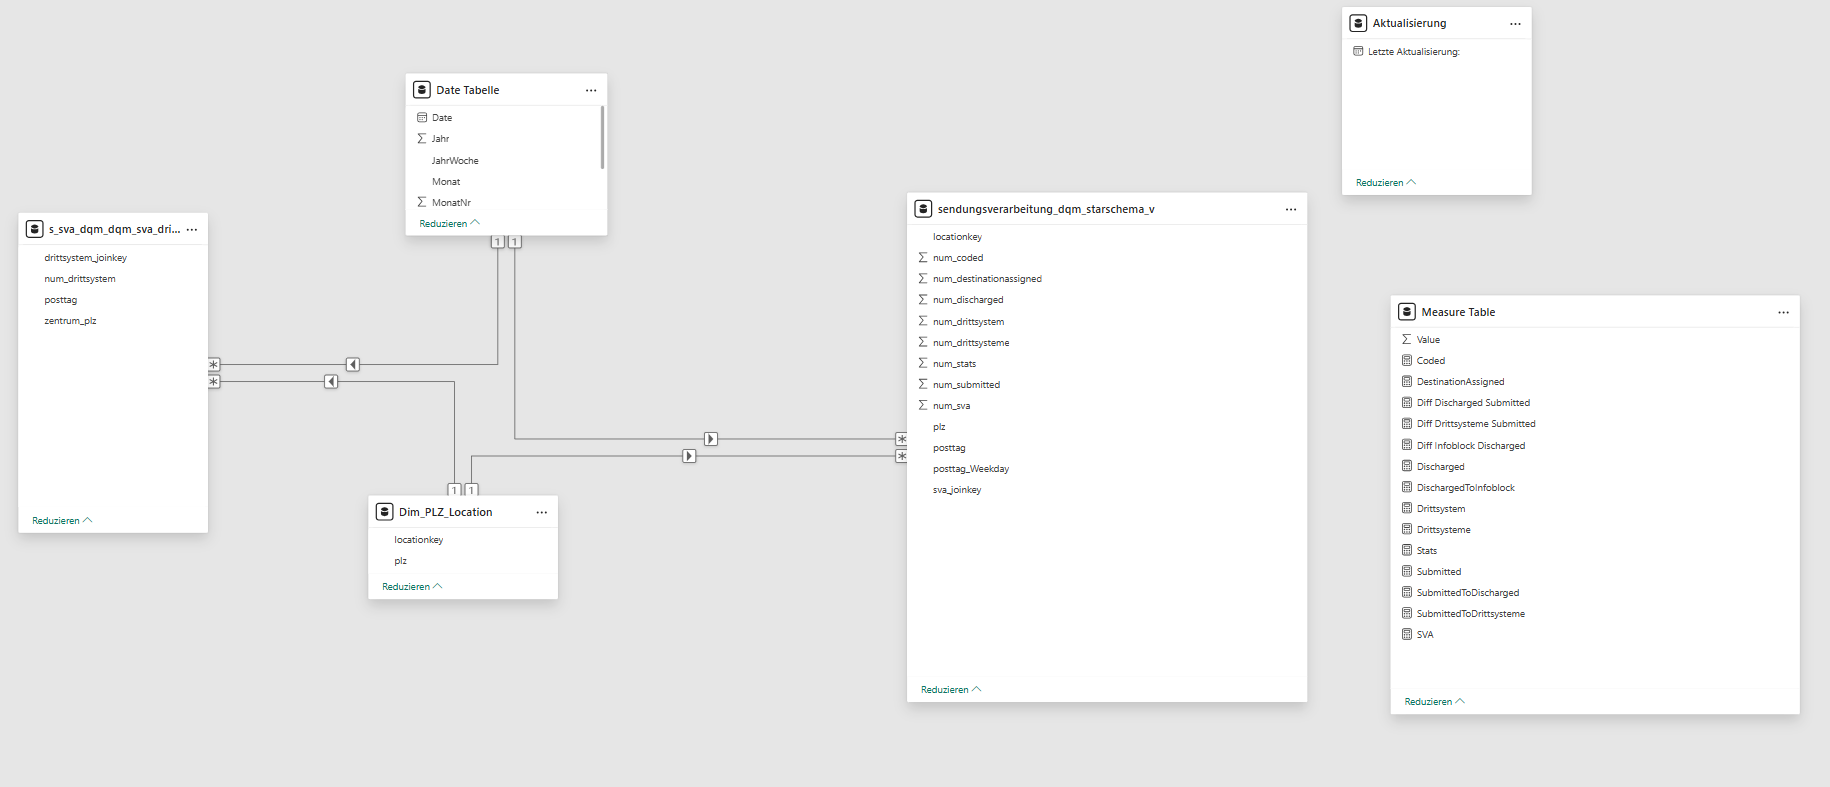
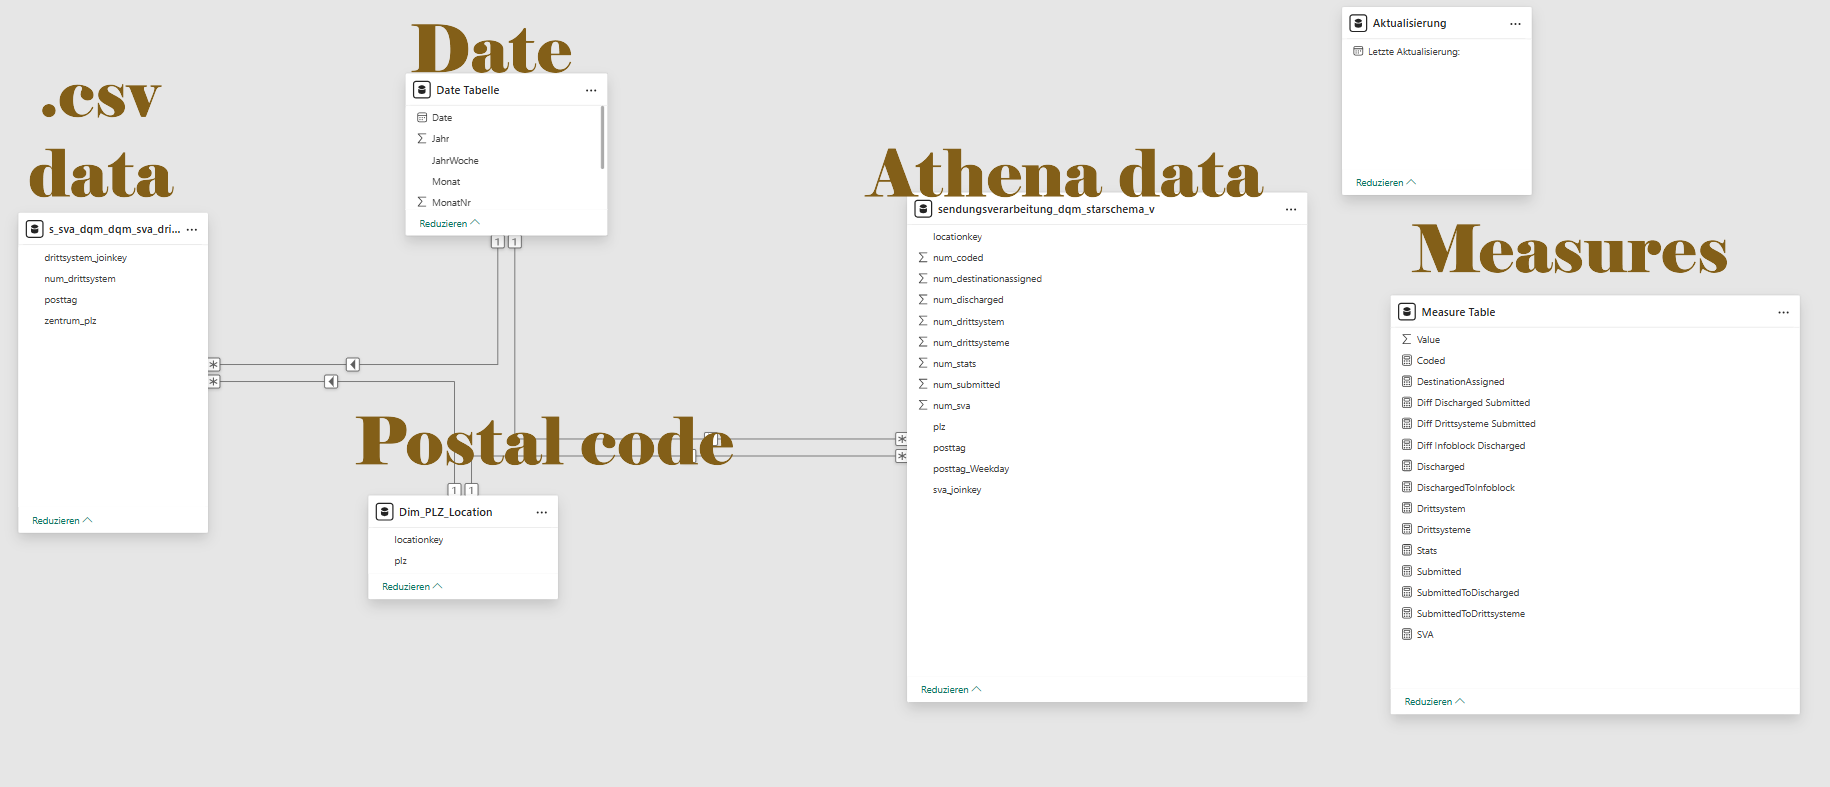
aded results and reflections from P1, much can be reused

diff --git a/Results_Achievements3.tex b/Results_Achievements3.tex
@@ -1,0 +1,71 @@
+\section{SMART goal 3: Investigation of data lineage for metrics}
+\subsection*{Goal definition}
+\textbf{3) Investigation of data lineage for metrics}
+
+\textbf{WHY:} To apply DQM checks to the correct data sources and enable root cause analysis.
+
+By the end of the analysis phase, investigate and document the data lineage from data ingestion to the reporting layer.
+
+Success is measured by a documented lineage description that allows data to be followed through the system and its transformations to be understood, including the validation possibilities available to responsible stakeholders.
+
+
+
+\subsection*{Core results}
+\begin{itemize}
+    
+\item \textbf{Business report documentation:} The business report for message processing DQM was documented. The key information was identified as \textbf{Diff\_Discharged\_Submitted}. Both submitted and discharged values should be in the same number range, as this check serves to ensure data completeness. This is because every mail piece in a sorting center has one submitted and one discharged event count per day, as the machines are empty at the end of every day. Therefore, the difference between these values needs to be below the threshold of 0.01. This is described in section \ref{Implementation1SubmittedDischargedDifference}.
+
+\item \textbf{Key value identification:} In the implementation chapter, the quality metrics of submitted and discharged, in conjunction with the difference between the two (\textbf{Diff\_Discharged\_Submitted}), were identified. These metrics represent the key values used to evaluate the daily completeness of data (Section \ref{Implementation1SubmittedDischargedDifference}).
+
+\item \textbf{SAC report documentation:} The report information relevant to the MVP was identified, including the date, three-letter location key, submitted number, discharged number, and their ratio, and was documented in section \ref{sectionSVADQMReport}.
+
+\item \textbf{DSP data model description:} Within the DSP, the data lineage of the entire report was examined. A key finding was the location where the ratio is calculated, namely within the DSP data model. Furthermore, it was identified that the data for the MVP case is based solely on AWS Athena; see section \ref{ImplementationInvestigateDSP}.
+
+\item \textbf{Business stakeholder confirmation:} The AWS Athena query was traced, and during a meeting with the stakeholders, the key information was confirmed. This is described in section \ref{ImplementationFourBusinessMeeting}.
+
+\item \textbf{AWS Athena query:} A concise analysis of the query structure and the AWS Athena–specific SQL was conducted, identifying the first relevant components. Finally, documentation was created and presented to the DQM team, as described in section \ref{subsectionAthenaQuery}.
+
+\item \textbf{DQM team update:} To update the DQM team, the data lineage from the AWS Athena query, including relevant accounts, was documented. This includes a brief introduction to the use case and the query for the MVP in section \ref{ImplementationFourConfluenceDocu}. The meeting is documented in appendix \ref{apendixDQM1911}.
+
+\end{itemize}
+
+\subsection*{Supporting results}
+
+\begin{itemize}
+\item \textbf{Data lineage description:} The data lineage was described from: \textit{1) the physical data source:} scans are performed on parcels by different scanners, \textit{2) the initial data storage:} the scan events are first saved in AWS S3, \textit{3) Kafka ingestion:} Apache Kafka ingests the events into a topic, \textit{4) data delivery to DWH:} Apache Kafka is consumed by DWH LS OPS, where the data is saved to the raw layer. This is described in Section \ref{SolutionDataLineage}.
+
+\item \textbf{Reporting pipeline description:} The reporting pipeline of DWH LS OPS is defined as the \textbf{storage layer} using Amazon S3, followed by the \textbf{query and processing layer} using Amazon Athena and SAP Datasphere (DSP), and finally the \textbf{consumption layer} using SAP Analytics Cloud (SAC). These steps are detailed in Section \ref{SolutionReportingPipeline}.
+
+\item \textbf{Placement of data quality:} Data quality checks are best placed on the processing and transformation layer. This allows both meaningful and effective tests. Earlier checks on the data lineage and reporting pipeline are less effective, as only global data completeness can be verified, while later checks on the reporting layer remove the possibility of corrective action. This is described in Section \ref{ResearchDataQChecksOnDataLifecycle}.
+
+\item \textbf{Key value identification:} In the implementation chapter, the quality metrics of submitted and discharged events, in conjunction with the difference between the two (\textbf{Diff\_Discharged\_Submitted}), are identified. These metrics represent the key values used to evaluate the daily completeness of data (Section \ref{Implementation1SubmittedDischargedDifference}).
+\end{itemize}
+
+\subsection*{What was not achieved?}
+
+The goal was completely fulfilled; nothing was left unachieved.
+
+
+\subsection*{Goal verdict}
+This goal was completely fulfilled. All required deliverables have been provided for this SMART goal.
+These include:
+\begin{multicols}{2}
+\begin{itemize}
+    \item \textbf{Supporting} Data lineage description
+    \item \textbf{Supporting} Reporting pipeline description
+    \item \textbf{Supporting} Placement of data quality
+    \item \textbf{Supporting} Key value identification    
+    \item \textbf{Core} Business report documentation
+    \item \textbf{Core} Key value identification
+    \item \textbf{Core} SAC report documentation
+    \item \textbf{Core} DSP data model description
+    \item \textbf{Core} Business stakeholder confirmation
+    \item \textbf{Core} AWS Athena query 
+    \item \textbf{Core} DQM team update
+\end{itemize}
+\end{multicols}
+
+
+\subsection*{Learning and outlook for future work}
+
+This allowed the identification of the key measurements for DQM. As this SMART goal was fully successful, no further learnings are carried forward to subsequent projects, aside from the tools SAC and DSP, which were examined in detail during their fulfillment.

diff --git a/ReflectionsOutlook.tex b/ReflectionsOutlook.tex
@@ -1,6 +1,12 @@
 \chapter{Reflection and outlook}
-Todo
-Rewrite this chapter
+
+\section{Todo}
+Review this section
+Update where needed
+dont rewrite it all
+
+\section{From here}
+
 
 The reflection chapter concludes the epic quest of the academic team towards the improvement of data quality and data availability at Swiss Post. It evaluates the project with regard to methodology, content, and personal learnings, and then concludes with an outlook on how the project may be followed up.
 
@@ -11,3 +17,61 @@ The reflection chapter concludes the epic quest of the academic team towards the
     \label{fig:reflection_lords_of_dqm}
 \end{figure}
 
+
+
+\section{Methodological Reflection}
+In this section, the methodology is reflected. This is not limited to the project management methodology but looks overall at all methods applied.
+
+\subsection*{What went well}
+The following list of items went well, including a reasoning why they went well.
+
+\begin{itemize}
+    \item \textbf{Documentation using Miro}: The documentation of the project on Miro went well. The tool proved very useful for fast notes, which were brought into the document later. It was also used for project management and is a key information resource for the entire project.
+    \item \textbf{Weekly meetings, Jour Fixe}: The Jour Fixe, as documented in Miro, was held weekly. It proved to be a valuable exchange and helped guide the work and larger tasks. Its documentation on paper was uploaded to Miro, which helped in keeping track of discussed and important decisions.
+    \item \textbf{Weekly meeting structure}: The meeting structure, starting with an introduction to the topic, the deliverables worked on, and a milestone status update, helped to structure the meetings and eased the start into another session after one week. Furthermore, the predefined questions helped to keep the discussion focused on the important topics. The deliverables graphic, together with the broad description of discharged and submitted items on Miro, supported this.
+    \item \textbf{Milestone structuring}: The milestones helped to keep the time effort per chapter structured. They helped to stop basic research at the right moment and to move towards the solution landscape and implementation.
+    \item \textbf{Writing mode}: The writing mode, with corrections using ChatGPT based on a defined prompt, went well after it was defined. It helped to iron out earlier occurrences of non-academic writing and grammatical issues.
+    \item \textbf{Kanban}: The Kanban board helped to keep track of tasks. While the usage can still be improved, noting important decisions as tasks helped to keep track of them.
+\end{itemize}
+
+
+\subsection*{What did not go well}
+
+\begin{itemize}
+    \item \textbf{Work on every Friday and Wednesday afternoon}: According to planning at the start of the project, the full friday with approximately eight hours and the wednesday afternoon with aproximately 4 hours at work were reserved for work on the projet. This was not always possible as the timetracking for work shows. This was compensated with working on other days then planned. However time blockers will need to be re-negotiated for the next project.
+    \item \textbf{Split between work at Swiss Post and academic work}: The 50\% to 50\% split between both engagements was not possible. At the beginning of the project, a delayed work project consumed all efforts and blocked from an early start into the project tasks, while later interruptions on production systems had to be fixed imediately rather than on the next day. This affected the start of the academic project which was postponed till early October which affected the scope.
+    \item \textbf{Writing speed}: The writing speed proofed to be lower than expected. Instead of reaching a first draft before Xmas holidays, the first complete draft was only available early january. This showed the need for an earlier start with more writing. 
+    \item \textbf{Rewriting of chapters}: Some chapters such as the results chapter were written in a first draft which had to be completely rewritten. This was a learning regarding required academic writing structure. In the following projects, this will be known an can be evaded.
+\end{itemize}
+
+
+
+\section{Content-related Learnings}
+% Was habe ich über DQM, DA, Lineage, Organisation gelernt?
+
+\begin{itemize}
+    \item \textbf{Data lineage and reporting pipeline}: The complex data lineage at Swiss Post, including the path from physical sensors through Apache Kafka to Amazon S3 storage. The number of steps until the data is available as a report is higher than expected. Even before the data is stored in the cloud in a raw state, it has already passed through at least three processing steps. Adding the reporting pipeline further increases the complexity, which at this stage is at least partly the responsibility of the reporting team.
+    \item \textbf{Where to check data quality and availability}: Data quality and availability checks need to be set up at different positions within the data lineage and reporting pipeline. While data availability is best checked early, data quality can only be checked in later stages when the data is joined with organisational information. For example, checking whether a postal code is valid requires a join with a postal code register when not only the number of digits but whether the code exists should be verified.
+    \item \textbf{Independence of data quality and availability}: Data can be available but incorrect, or unavailable but correct. This is because availability can be time-based. For example, data needs to be available at 07:00; if it is not available at 07:00 but arrives at 07:02 and is correct, the data was simultaneously unavailable while its quality was acceptable.
+    \item \textbf{Technical documentation requirements}: When setting up the documentation for the DQM team, it became apparent which information is important, such as missing account information in the first version. Documentation within the same team often does not require such details, but communication with another team requires this key information, including more guidance on how to navigate an unfamiliar environment, such as the different databases in Amazon Athena.
+    \item \textbf{Use case feasibility}: The research and documentation of existing checks performed by the business showed that they can be replaced with automated rule-based checks. Furthermore, the implementation demonstrated the steps required to set up the rules for future DQM checks.
+    \item \textbf{Tool-related}: During the work, many new tools were explored, such as DSP with its data lineage capabilities. This enabled the acquisition of new knowledge that is useful for future work.
+    \item \textbf{Language-related}: The analysis of the query structure used in the DQM view helped to understand Amazon Athena–specific structures and also deepened knowledge of CTE usage in three-layered aggregations.
+    \item \textbf{Usefulness of heterogeneity}: While the heterogeneity of Swiss Post poses challenges at the reporting level, it is essential at the operational and risk management levels. For example, managing plants of different sizes in the same way would create management overhead, and relying on a single hardware provider would introduce significant risks.
+    \item \textbf{IT complexity}: Swiss Post has a large IT infrastructure that is managed by multiple teams working together towards the common goal of keeping systems running and improving them. This creates constraints, as multiple teams work on shared initiatives. While this can be beneficial, as not everything needs to be handled by a single team, it also requires coordination of solutions and architectures, often shifting new implementations from greenfield to brownfield environments.
+\end{itemize}
+
+
+
+\section{Personal Learnings \& Outlook}
+
+In the course of this work, the author has learned many things; the following list summarises the most important learnings and their expected impact on future work.
+
+\begin{itemize}
+    \item \textbf{Importance of better planning}: Instead of assuming that something may be done in two or three days, the amount of learning required for unknown tools must be considered. Tasks should therefore be evaluated with regard to the tooling required. If the tooling is unknown, the learning time should be added to the time required for the task.
+    \item \textbf{Organisational constraints}: Due to the size of Swiss Post, many activities happen in parallel. Multiple teams can work on the same initiatives, but often on different aspects. Identifying these activities prior to starting can help to avoid duplicated research. This, however, requires more preparation time and management, as well as communication within the organisation.
+    \item \textbf{Research the obvious earlier}: For example, the DQM team did have some documentation, but this documentation was not sufficient for the rule-based DQM initiative. Reviewing this information in more detail earlier in the project would lead to a better understanding of the initial situation.
+    \item \textbf{Communication with external teams}: External teams have different delivery goals and timelines. To avoid incorrect assumptions about their deliverables, these plans need to be tracked explicitly. This requires earlier communication and research into their timelines and delivery goals. Based on this information, the planning of the project team can be adapted.
+    \item \textbf{Start the writing earlier}: The writing process was started early with the first chapters; however, the bulk of the writing was completed after the implementation. Starting the writing process earlier would shift research activities that occur during writing to an earlier stage. Having the chapters on which the implementation is based available earlier also allows the work to be structured more effectively.
+    \item \textbf{Focus on what is relevant}: When taking screenshots, it is not necessary to capture the entire screen. It is more important to highlight the relevant information rather than documenting where in the tool the information can be found. Using lenses or smaller screenshots is therefore identified as a learning and goal for the next project.
+\end{itemize}

diff --git a/Results_Achievements2.tex b/Results_Achievements2.tex
@@ -1,0 +1,49 @@
+\section{SMART goal 2: Investigation of IT systems for DQM metrics}
+\subsection*{Goal definition}
+\textbf{2) Investigation of IT systems for DQM metrics}
+
+\textbf{WHY:} To define what DQM means in measurable terms.
+
+By the end of the analysis phase, the IT systems and data stores are investigated, and it is defined where quality metrics can be implemented, stored, and evaluated within the DWH LS OPS environment.
+
+Success is measured by a documented system overview that maps the selected metric to its technical source, storage location, and execution context. This is to be validated with IT stakeholders.
+
+
+\subsection*{Core results}
+This goal, while enriched with many supporting results, did not meet the core result of defining the storage and execution context. 
+It is important to note that the rule-based DQM system was developed only as a proof of concept with a test case. Therefore, the position of the rule checks was not defined \ref{SolutionDQMEndOf2025}. This is, however, out of scope, as the rule check engine is developed by the DQM team working in parallel on this solution without involvement of the project team.
+
+
+\subsection*{Supporting results}
+\begin{itemize}
+\item \textbf{Data lineage description:} The data lineage was described as follows: \textit{1) Physical data source:} Scans are performed on parcels by different scanners; \textit{2) Initial data storage:} The scan events are first saved in AWS S3; \textit{3) Kafka ingestion:} Apache Kafka ingests the events into a topic; \textit{4) Data delivery to DWH:} Apache Kafka is consumed by DWH LS OPS, where the data is saved to the raw layer. This is described in Section \ref{SolutionDataLineage}.
+
+\item \textbf{Reporting pipeline description:} The reporting pipeline of DWH LS OPS is defined as follows: the \textbf{storage layer} using Amazon S3, followed by the \textbf{query and processing layer} using Amazon Athena and SAP Datasphere (DSP), and finally the \textbf{consumption layer} using SAP Analytics Cloud (SAC). These steps are detailed in Section \ref{SolutionReportingPipeline}.
+
+\item \textbf{Placement of data quality checks:} Data quality checks are most effectively placed on the processing and transformation layer. This allows both meaningful and effective validation. Earlier checks on the data lineage and reporting pipeline are limited to global completeness, while later checks on the reporting layer are too late to enable corrective action. This is discussed in Section \ref{ResearchDataQChecksOnDataLifecycle}.
+
+\item \textbf{Results of DQM checks:} The DQM team defined that the results of rule checks are to be stored in a rule-check database. However, this solution was not yet installed in DWH LS OPS at the time of this analysis. This is described in Section \ref{SolutionDQMTeamHighLevelTarget}.
+\end{itemize}
+
+
+\subsection*{What was not achieved?}
+
+\begin{itemize}
+    
+\item \textbf{IT stakeholder confirmation:} Formal confirmation of the data lineage and the reporting pipeline was not obtained from IT stakeholders.
+
+\item \textbf{DQM check storage location:} The location where DQM check results are to be stored was not defined.
+
+\end{itemize}
+
+
+\subsection*{Goal verdict}
+This SMART goal was \textbf{partially achieved}, as two targets were not met.
+
+\textbf{Why:} First, the DQM check storage location was not defined; however, this is out of scope because responsibility for the application lies with the DQM team. Second, formal confirmation with IT stakeholders regarding the data lineage and reporting pipeline was not conducted.
+
+
+\subsection*{Learning and outlook for future work}
+Regarding the missing alignment with IT stakeholders, the data lineage was initially considered general knowledge within the team and therefore not documented first. Once it was available, discussion with IT stakeholders was no longer possible due to time constraints. Second, the position for saving DQM results was out of scope.
+
+For the first point, aspects that appear obvious should be documented earlier when confirmation is required. Regarding out-of-scope topics, communication with external teams needs to be more proactive in order to identify earlier when deliverables are delayed or when priorities change.

diff --git a/Results_Achievements1.tex b/Results_Achievements1.tex
@@ -1,0 +1,40 @@
+\section{SMART goal 1: Identification of initial data quality metrics}
+\subsection*{Goal definition}
+\textbf{1) Identification of initial data quality metrics}
+    
+\textbf{WHY:} Defining measurable data quality terms. This helps to ensure that checks focus on business-relevant issues.
+
+By the end of the analysis phase, the initial data quality measures suitable for automated projects in the DWH LS OPS environment are identified and defined. At least three dimensions should be covered, such as completeness and consistency.
+
+Success is measured by the documented metrics, which include a specific metric definition with calculation logic, data scope, and business relevance.
+
+
+
+\subsection*{Core results}
+\begin{itemize}
+    
+\item \textbf{Key value identification:} In the implementation chapter, the quality metrics of submitted and discharged, in conjunction with the difference between the two (\textbf{Diff\_Discharged\_Submitted}), are identified. These metrics represent the key values used to evaluate the daily completeness of data (Section \ref{Implementation1SubmittedDischargedDifference}).
+
+\item \textbf{Query simplification:} At the end of the implementation chapter, these metrics are formalised into rule checks. The first result was the reduction of the large reporting view query to focus on the MVP, as described in Section \ref{ImplementationAthenaQueryReduction}.
+
+\item \textbf{Setup of a general rule:} Next, the rule derived from the business report was formalised into pseudocode. First, the current business-driven check was described. Then, a generalised rule setup was illustrated using pseudocode. The generalised version contains two threshold checks and a relative comparison between submitted and discharged values, as described in Section \ref{ImplementationDeriveGeneralisableRules}.
+
+\item \textbf{Implementation documentation:} Finally, a mind map describing the SQL query content and its columns was created, distinguishing between identifiers (date, sorting center code) and the DQM core values (submitted, discharged, and their difference). In addition, a rule map visualises the different checks and how the two threshold checks prepare the relative difference threshold check. These visualisations are provided in Section \ref{ImplementationPrepareForNextProj}.
+\end{itemize}
+
+\subsection*{Supporting results}
+The following results support the later implementation steps:
+\begin{itemize}
+    \item In the research chapter, the definition of data quality checks is provided in Section \ref{ResearchWhatIsDQ}. The relevant dimensions are identified as completeness, accuracy, consistency, and timeliness. This description is sufficient, as the definitions are already established at Swiss Post according to \cite{iso_iec_25012}.
+
+    \item In the solution architecture, the metrics are reflected in the definitions of the relevant submitted and discharged events, as described in Sections \ref{SolutionSubmittedEvent} and \ref{SolutionDischargedEvent}.
+\end{itemize}
+
+\subsection*{What was not achieved?}
+All goals are fulfilled.
+
+\subsection*{Goal verdict}
+This goal was completely fulfilled. It has a formal definition, and in the implementation the relevant metrics were identified. This is supported by the metric artefacts shown in the core results, namely \textbf{Diff\_Discharged\_Submitted}.
+
+\subsection*{Learning and outlook for future work}
+In the heterogeneous environment of Swiss Post postal services, taking diversity into account and addressing it sufficiently is important. The challenges this diversity poses for analytical reporting and DQM in this area should be defined earlier and with more emphasis. More explicit definitions may help the reader of this document to more easily engage with the topic.

diff --git a/Implementation1.tex b/Implementation1.tex
@@ -69,7 +69,17 @@ According to the initial research using \gls{copilot}, the issue could be resolv
 
 \subsubsection*{Model data setup}
 
-After the initial data from the \gls{SAC} report were integrated, the model contained information from two tables sourced from AWS. However, for the further checks, more data sources had to be included. Thus, the data model had to be refined by connecting the tables through the data model view rather than through \gls{mQuery} and \gls{dax}. Initially, only two tables had to be linked through the postal codes and dates. This new model setup was a requirement defined by the team, as was the separation of the measures into a dedicated table in Power BI.
+After the initial data from the \gls{SAC} report were integrated, the model contained information from two tables sourced from AWS. However, for the further checks, more data sources had to be included. Thus, the data model had to be refined by connecting the tables through the data model view rather than through \gls{mQuery} and \gls{dax}. Initially, only two tables had to be linked through the postal codes and dates. This new model setup was a requirement defined by the team, as was the separation of the measures into a dedicated table in Power BI. To highlight the initial setup, the four remaining tables are labelled here and in the next figure in the same way. The different tables are used for:
+
+\begin{itemize}
+    \item \textbf{CSV data:} The data from the CSV file represent the third-party event counts.
+    \item \textbf{Athena data:} These are the data from \gls{athena}, comprising the event counts compared in the report.
+    \item \textbf{Measures:} These are the calculations performed based on the CSV and Athena data.
+    \item \textbf{Date:} The table used for joining and filtering data based on the date.
+    \item \textbf{Postal code:} The table used for joining the data based on the postal code and for filtering it by location name.
+\end{itemize}
+
+
 
 \begin{figure}[H]
     \centering
@@ -80,7 +90,14 @@ After the initial data from the \gls{SAC} report were integrated, the model cont
 
 
 
-The data model was extended towards the end of this SMART goal by integrating the full data model used by the business. This was mandatory to perform the final check, comparing the infoblock data in \gls{athena} with the \gls{aggregationTable} in Power BI. This aggregation table is a means to improve the response time for the most frequently used data points for reporting, which are in turn stored directly in Power BI rather than having to be queried from \gls{athena}. The aggregation table was set up by the \gls{ASTV} team and was used by the project team.
+The data model was extended towards the end of this SMART Goal by integrating the full data model used by the business. This was mandatory to perform the final check, comparing the infoblock data in \gls{athena} with the \gls{aggregationTable} in Power BI. This aggregation table is a means of improving the response time for the most frequently used data points for reporting, which are in turn stored directly in Power BI rather than having to be queried from \gls{athena}. The aggregation table was set up by the \gls{ASTV} team and was used by the project team. The previously existing tables are shown with the same labels, while the additional tables have green labels. The high number of additional tables results from the implemented semantic model of another report. A semantic model is the data model of another report. By using the required green tables, the additional ones are automatically added to the existing data model. The additional tables are:
+
+\begin{itemize}
+    \item \textbf{Aggregation:} The data from the semantic model containing the aggregation counts.
+    \item \textbf{Date:} The table with the complete date information based on the star schema, imported together with the semantic model.
+    \item \textbf{Postal code:} The table with the complete postal code information based on the star schema, imported together with the semantic model.
+\end{itemize}
+
 
 \begin{figure}[H]
     \centering
@@ -144,7 +161,7 @@ As the report was completing with the given features, it was important to retrie
 
 \begin{figure}[H]
     \centering
-    \includegraphics[width=.95\textwidth]{./content/img/SprintReviewSlides.png}
+    \includegraphics[width=.80\textwidth]{./content/img/SprintReviewSlides.png}
     \caption{Slides used during the Scrum review to present the implemented Power BI data quality monitoring solution and collect feedback for further development.}
     \label{fig:sprint_review}
 \end{figure}
@@ -157,7 +174,7 @@ After the review further feedback was collected in separate sessions. The stakeh
 
 \begin{figure}[H]
     \centering
-    \includegraphics[width=0.90\textwidth]{./content/img/FeedbackMeeting_AfterReview.png}
+    \includegraphics[width=0.80\textwidth]{./content/img/FeedbackMeeting_AfterReview.png}
     \caption{Miro board documenting stakeholder feedback collected during a review meeting together with the implementation status of the resulting improvement actions.}
     \label{fig:stakeholder_feedback_miro}
 \end{figure}

diff --git a/Results.tex b/Results.tex
@@ -1,8 +1,9 @@
 \chapter{Results}
 
-Todo
-Write the results chapter
-
+\section{Todo}
+Rewrite
+but not completely from here
+\section{Here}
 
 This is the key chapter that reflects on the initial goals, the work carried out to achieve the goals, and the degree to which they were achieved. This chapter is structured around each goal, and special attention is paid to the key learnings that will be useful for subsequent phases of this work.
 
@@ -26,6 +27,10 @@ These SMART goals have been defined in the research chapter at \ref{ResearchSmar
 \end{itemize}
 
 
+
+\input{Results_Achievements1}
+\input{Results_Achievements2}
+\input{Results_Achievements3}
 
 
 